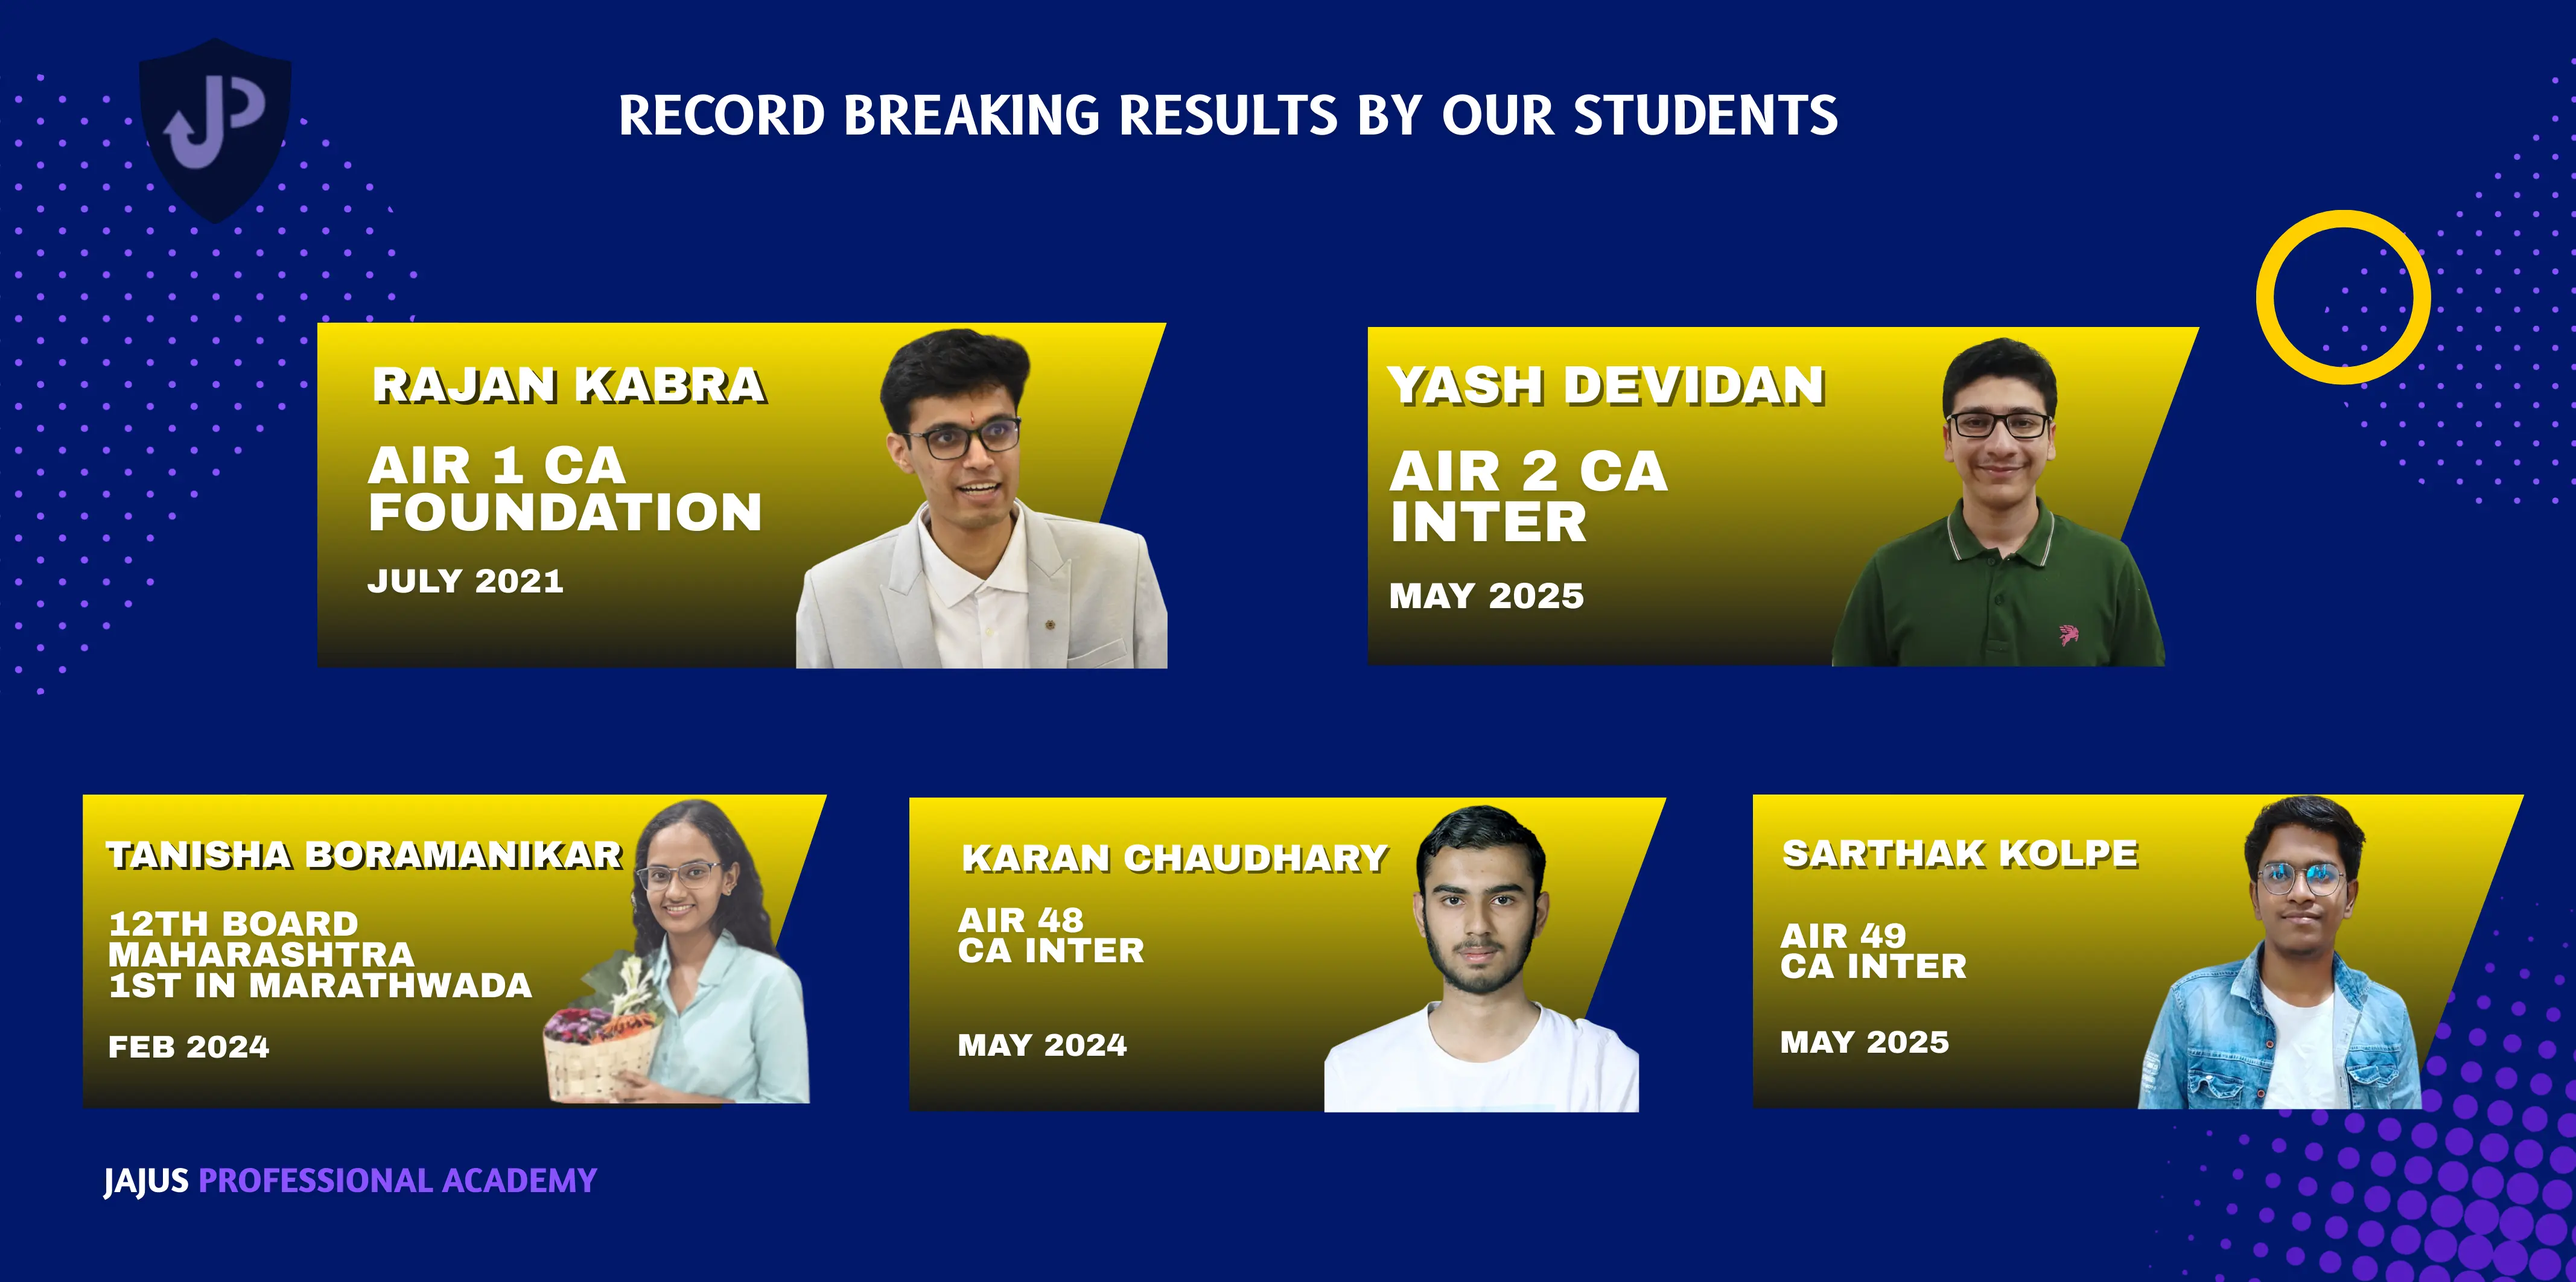
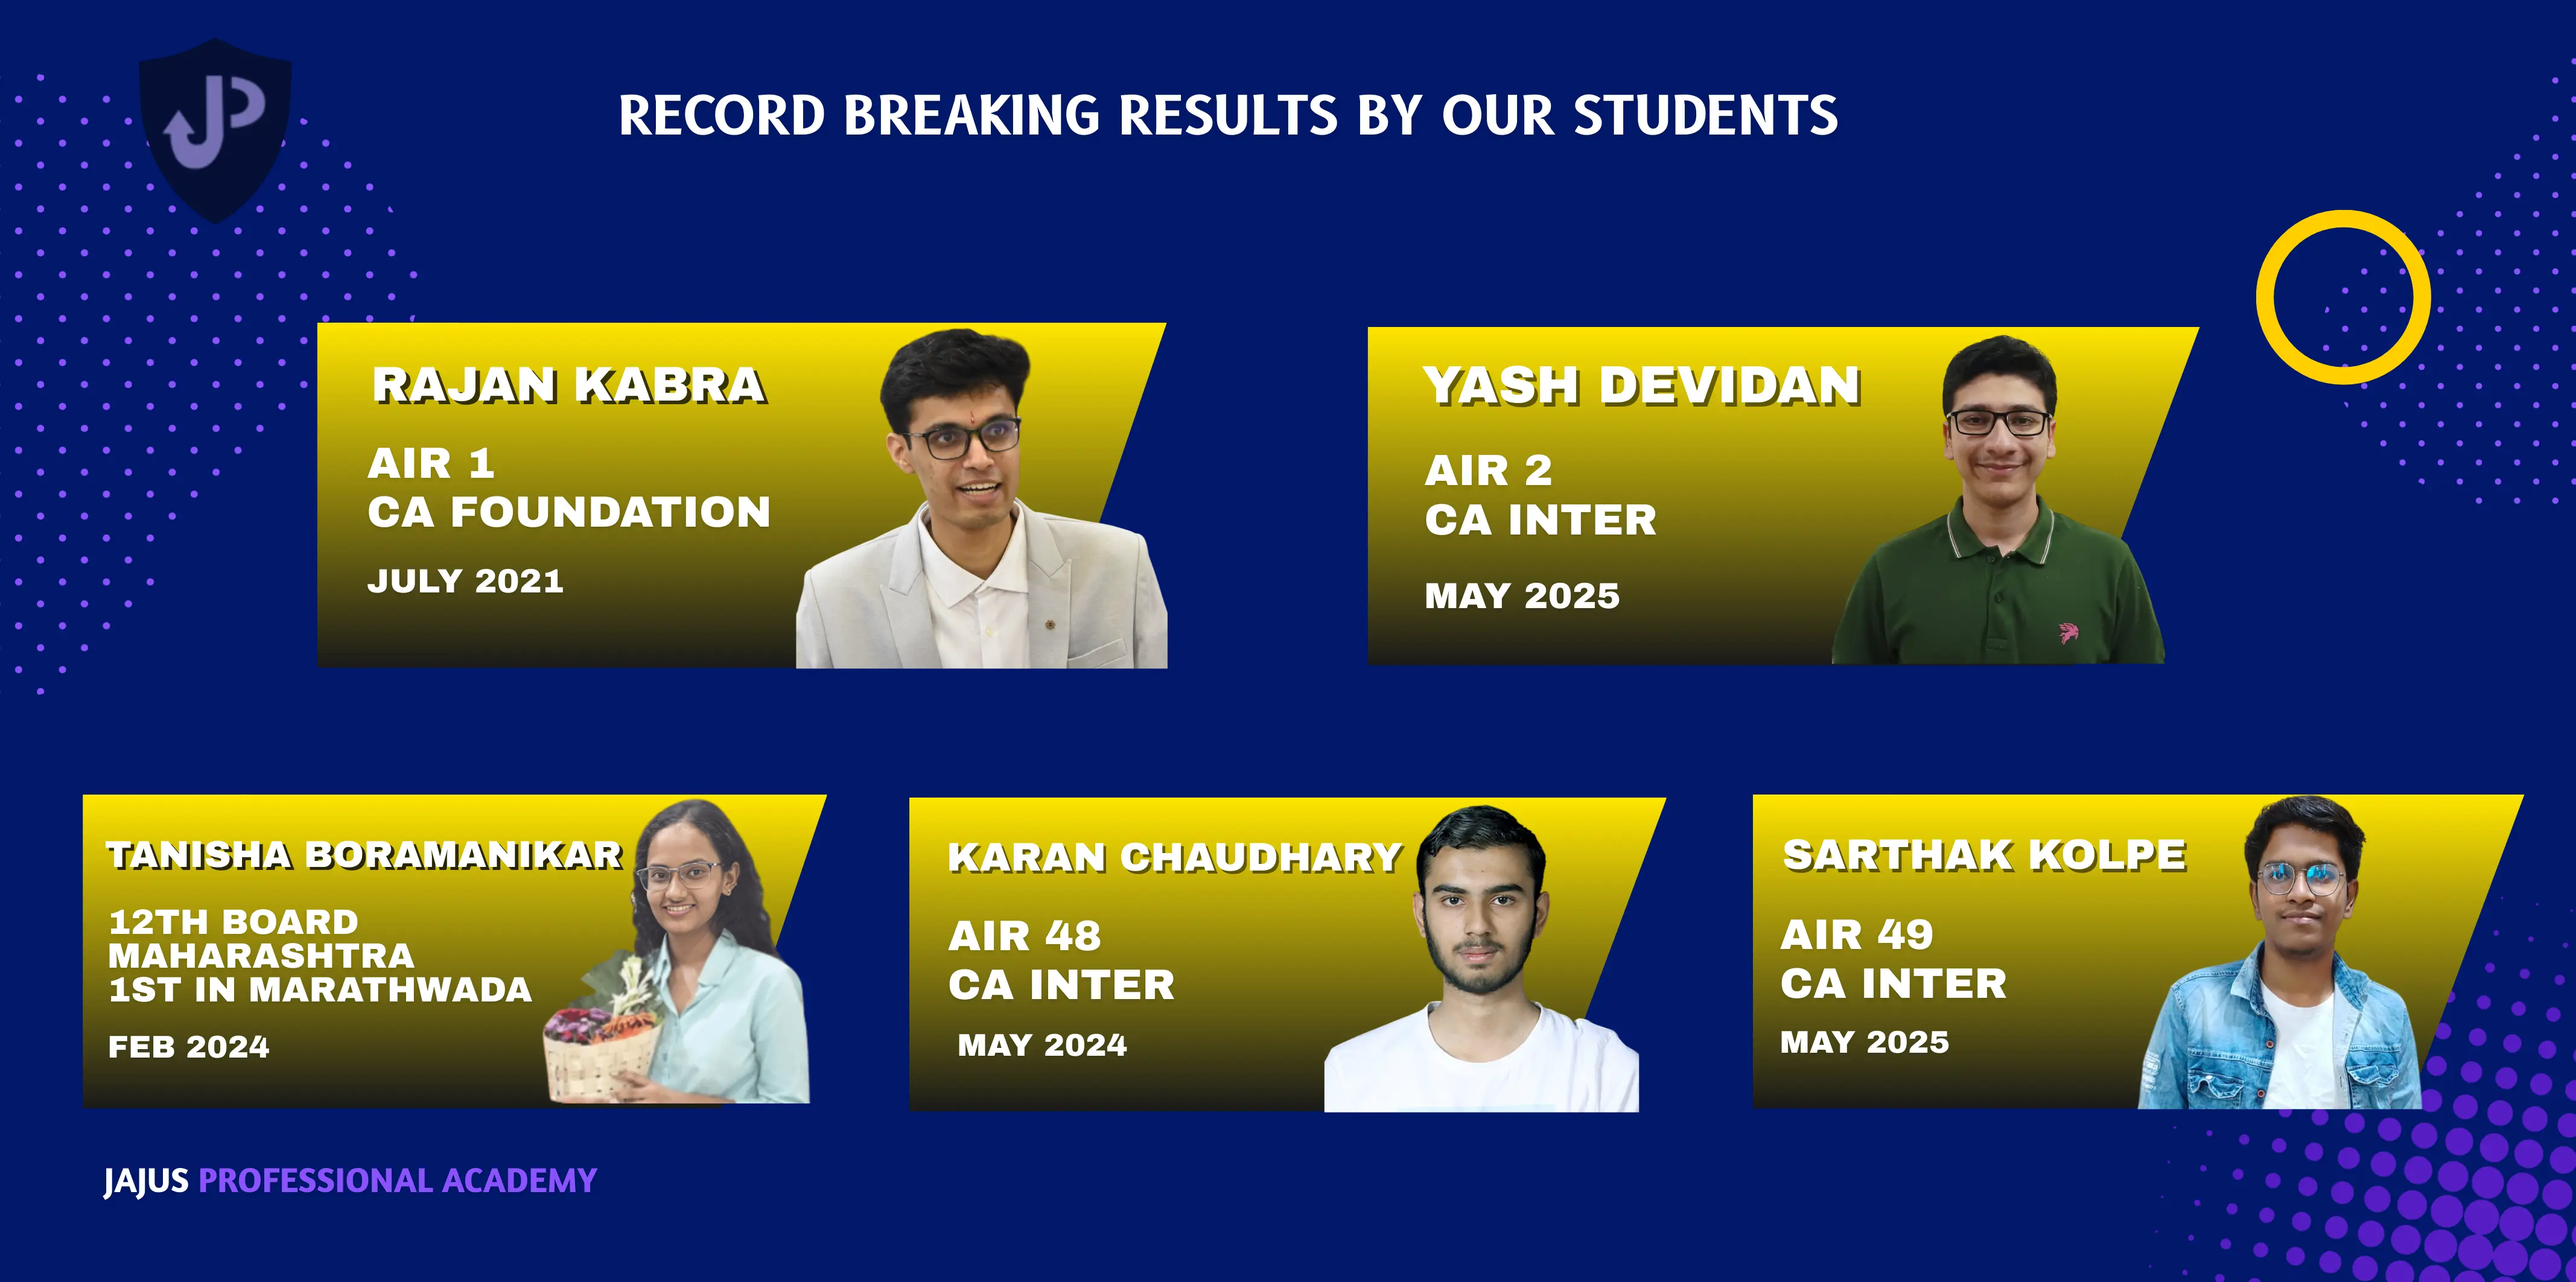
feat: Update course section and footer section

diff --git a/src/pages/Home.tsx b/src/pages/Home.tsx
@@ -59,7 +59,7 @@ const Home = () => {
       icon: <GraduationCap />
     },
     {
-      title: "XI & XII Foundation",
+      title: "XI & XII + CA Foundation",
       description: "Strong foundation for aspiring commerce student",
       icon: <Layers />
     },
@@ -411,7 +411,7 @@ const Home = () => {
 
                 {/* Branch Name */}
                 <h3 className="text-base sm:text-lg lg:text-xl font-bold text-violet-900 mb-2">
-                  Usmanpura Branch
+                  Office, Usmanpura Branch
                 </h3>
 
                 <div className="flex items-center justify-center mb-3 sm:mb-4">
@@ -447,7 +447,7 @@ const Home = () => {
 
                 {/* Branch Name */}
                 <h3 className="text-base sm:text-lg lg:text-xl font-bold text-violet-900 mb-2">
-                  Head Office
+                  Head Office, Jalna Road Branch
                 </h3>
 
                 <div className="flex items-center justify-center mb-3 sm:mb-4">
@@ -471,7 +471,7 @@ const Home = () => {
                 Address:
                 <br />
                 Jaju Professional Academy,
-                Beed Bypass Road, Chhatrapati Sambhajinagar, Maharashtra 431001
+                Jalna Road, Chhatrapati Sambhajinagar, Maharashtra 431001
               </p>
             </div>
 
@@ -482,7 +482,7 @@ const Home = () => {
 
                 {/* Branch Name */}
                 <h3 className="text-base sm:text-lg lg:text-xl font-bold text-violet-900 mb-2">
-                  Waluj Branch
+                  Office, Waluj Branch
                 </h3>
 
                 <div className="flex items-center justify-center mb-3 sm:mb-4">
@@ -506,7 +506,7 @@ const Home = () => {
                 Address:
                 <br />
                 X-47, 1st Floor, Opp. Shaheed Bhagatsing School, Bajaj Nagar,
-                Waluj, Chhatrapati Sambhajinagar, Maharashtra 431001
+                Waluj, Chhatrapati Sambhajinagar, Maharashtra 431136
               </p>
             </div>
 

diff --git a/src/components/Footer.tsx b/src/components/Footer.tsx
@@ -8,7 +8,7 @@ function Footer() {
                     <div>
                         <h3 className="text-2xl font-bold mb-4">Jaju Professional Academy</h3>
                         <p className="text-violet-200 leading-relaxed">
-                            Join Jaju's Professional Academy and start preparing for your CA Foundation and CA Intermediate exams.
+                            Join Jaju's Professional Academy and start preparing for your CA Journey.
                         </p>
                     </div>
 
@@ -22,9 +22,13 @@ function Footer() {
                     <div>
                         <h4 className="text-lg font-semibold mb-4">PROGRAMS</h4>
                         <ul className="text-violet-200 text-sm space-y-2">
-                            <li>Ca Foundation</li>
-                            <li>Ca Intermediate</li>
                             <li>XI & XII Commerce</li>
+                            <li>XI & XII + CA Foundation</li>
+                            <li>CA Foundation</li>
+                            <li>CA Intermediate</li>
+                            <li>CA Final</li>
+                            <li>CS-Foundation</li>
+                            <li>Test Series</li>
                         </ul>
                     </div>
 

diff --git a/src/pages/Admission.tsx b/src/pages/Admission.tsx
@@ -55,7 +55,7 @@ const AdmissionPage = () => {
             nextBatch: "June 1, 2025"
         },
         {
-            name: "XI & XII Foundation",
+            name: "XI & XII + CA Foundation",
             duration: "1-2 years",
             batchSize: "30-35 students",
             fee: "₹20,000",
@@ -324,7 +324,7 @@ const AdmissionPage = () => {
                                     >
                                         <option value="">Select a course</option>
                                         <option value="XI & XII Commerce">XI & XII Commerce</option>
-                                        <option value="XI & XII Foundation">XI & XII Foundation</option>
+                                        <option value="XI & XII + CA Foundation">XI & XII + CA Foundation</option>
                                         <option value="CA Foundation">CA Foundation</option>
                                         <option value="CA Intermediate">CA Intermediate</option>
                                         <option value="CA Final">CA Final</option>
